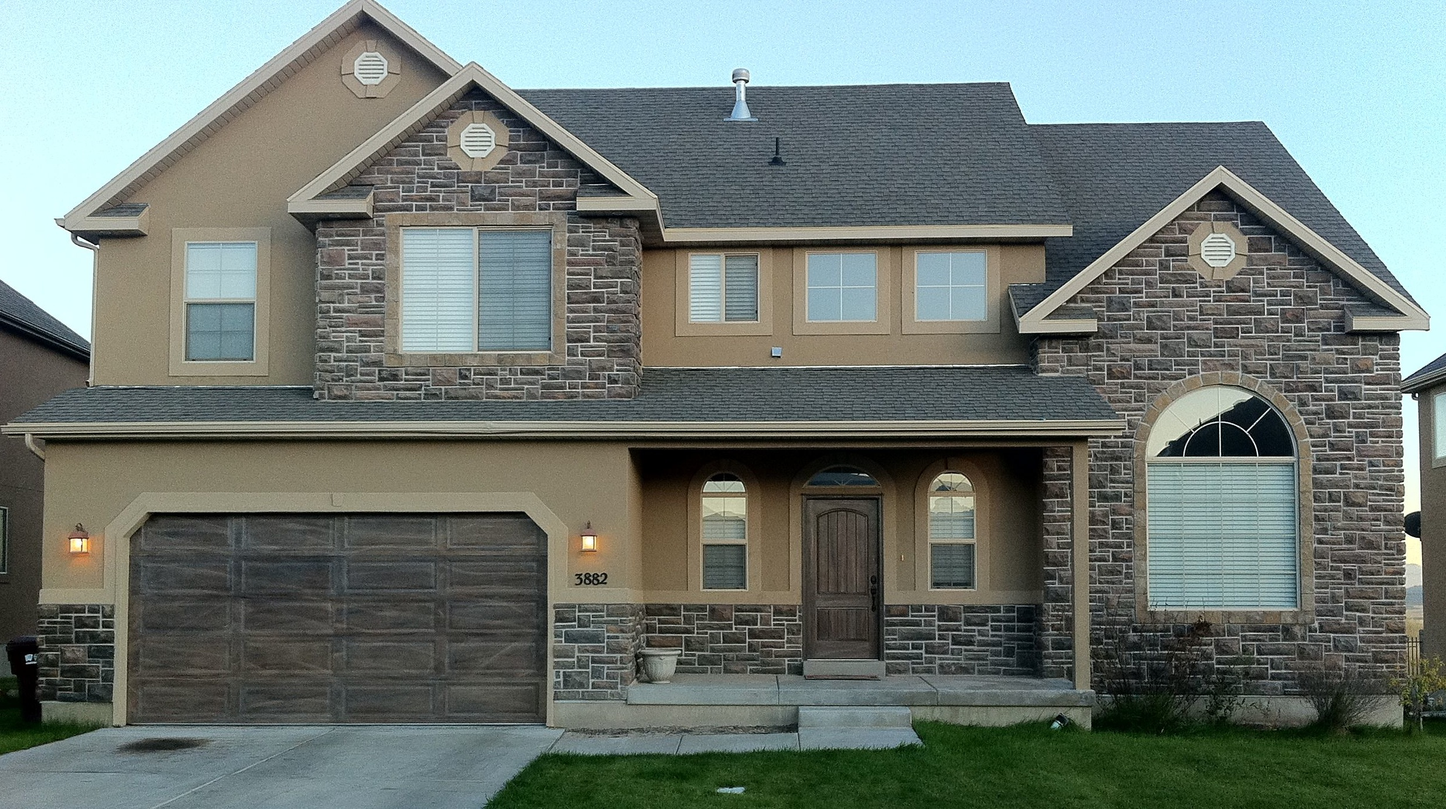
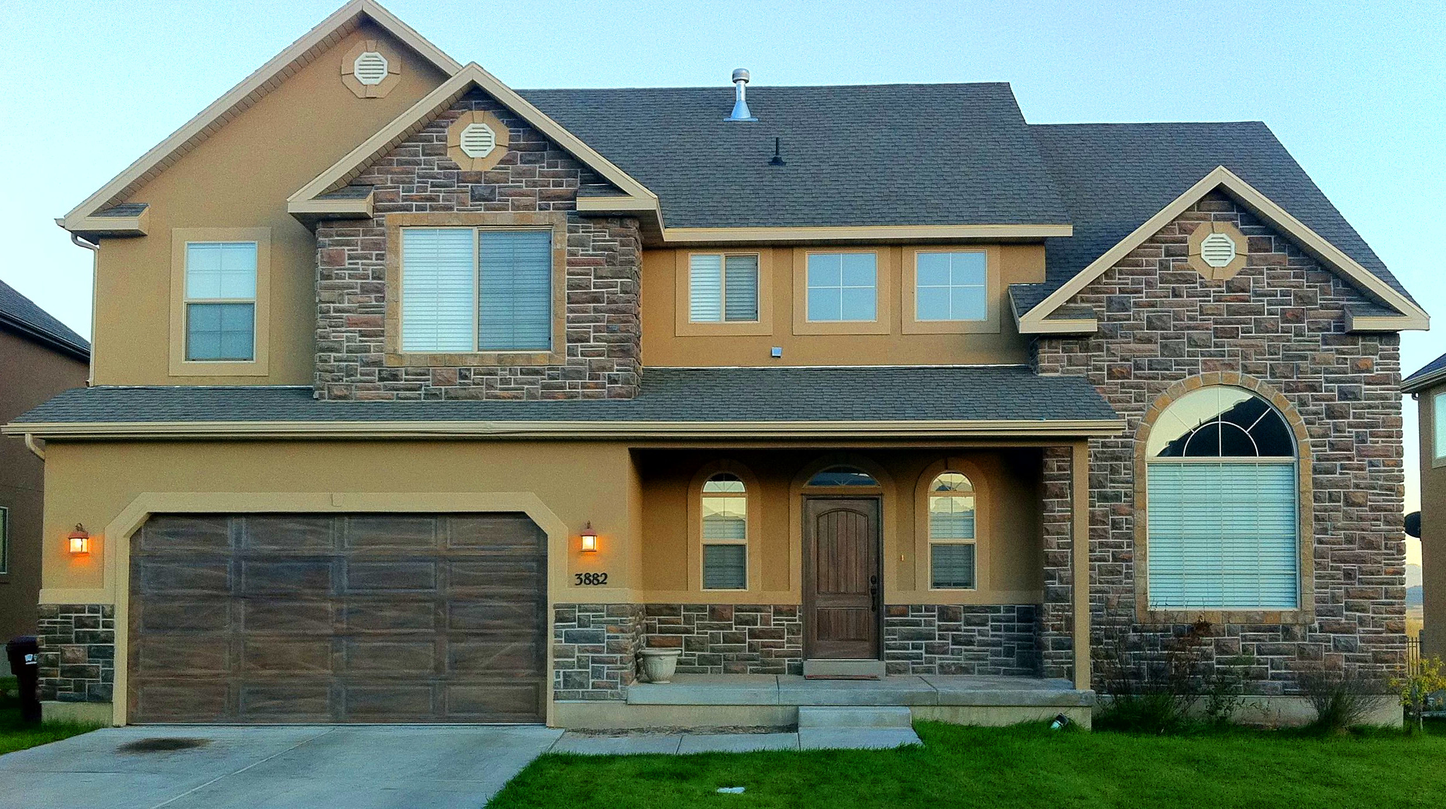
added color saturation to house, working on central form php and css

diff --git a/css/styles.css b/css/styles.css
@@ -49,3 +49,45 @@ img {
   left: 0px;
   z-index: -1;
 }
+
+.central {
+  margin-left: 27%;
+  margin-right: 27%;
+  background-color: rgba(242, 242, 242, .8);
+}
+
+hr {
+  width: 60%;
+  height: 2px;
+  background: #C60B35;
+}
+
+.transparent-red {
+  background-color: rgba(204, 0, 0, .7);
+  margin-left: 1%;
+  margin-right: 1%;
+}
+
+.white {
+  color: white;
+}
+
+button {
+  background-color: #C60B35;
+  color: white;
+}
+
+input {
+  width: 50%;
+  margin: 0 auto;
+}
+
+
+
+
+
+
+
+
+
+

diff --git a/index.php b/index.php
@@ -3,8 +3,35 @@
 
 <div class='container-fluid' id='top-red'>
   <img src='/img/house.jpg' alt='house'>
-
-
+  <div class='central center-text'>
+    <h1><span class='red'>PROFESSIONAL</span> <span class='blue'>PAINTERS</span></h1>
+    <h2 class='blue'>OF LARGO, CLEARWATER, TAMPA</h2>
+    <hr>
+    <h3 class='blue'>WE CARE ABOUT MORE THAN PAINT!</h3>
+    <div class='transparent-red white'>
+      <h4>SCHEDULE YOUR FREE ESTIMATE</h4>
+      <h4>TO REDEEM PROMO CODE FOR</h4>
+      <h1>$150 OFF</h1>
+      <h5>ANY JOB OF $3000 OR MORE</h5>
+    </div>
+    <form method='post' action="<?php echo htmlspecialchars($_SERVER['PHP_SELF']) ?>" class='form-horizontal'>
+      <div class='form-group'>
+        <label for='name'>NAME</label>
+        <input type='text' class='' id='name'>
+      </div>
+      <div class='form-group'>
+        <label for='email'>EMAIL</label>
+        <input type='email' class='' id='email'>
+      </div>
+      <div class='form-group'>
+        <label for='phone'>PHONE</label>
+        <input type='number' class='' id='phone'>
+      </div>
+      <div class='form-group'>
+        <button type='submit' class='btn'>SAVE $150</button>
+      </div>
+    </form>
+  </div>
 </div>
 
 
